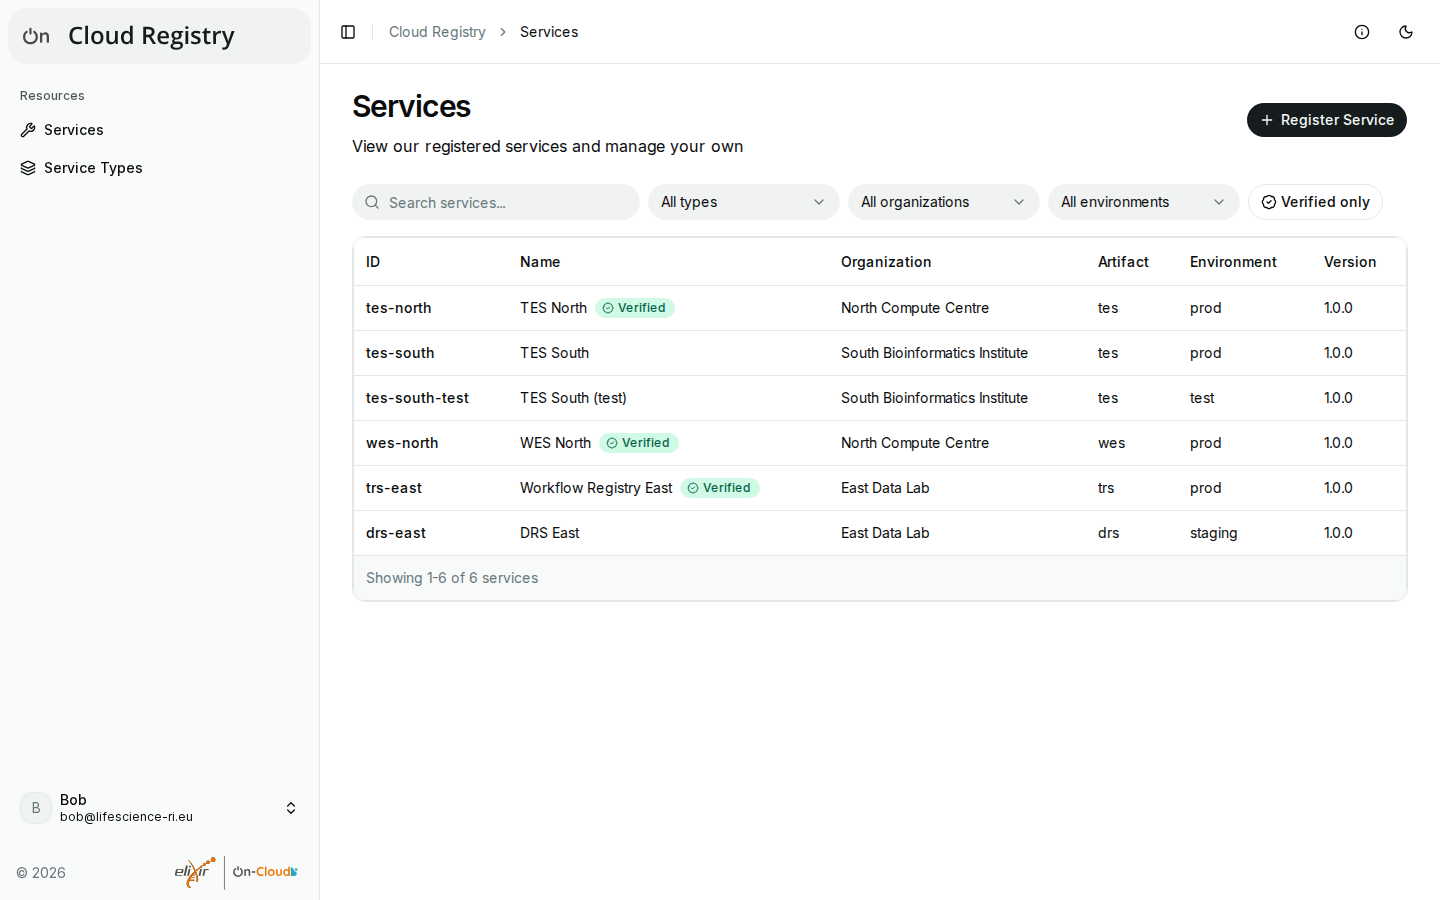
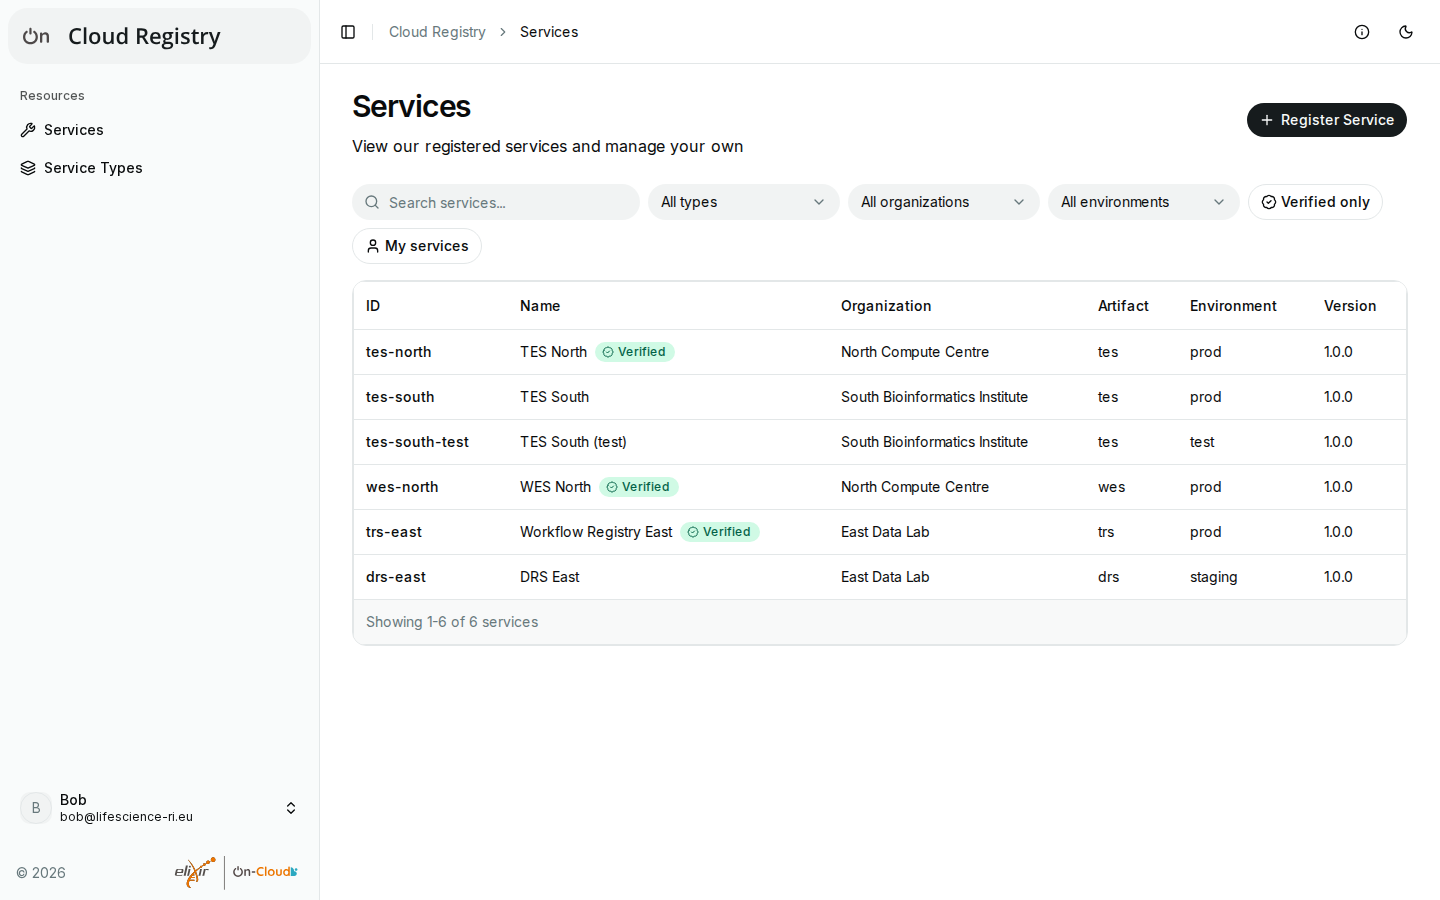
feat: filter the services list to my services (#175)

diff --git a/src/app/dashboard/services/_components/filter-helper.test.ts b/src/app/dashboard/services/_components/filter-helper.test.ts
@@ -1,12 +1,13 @@
 import type { ExternalService } from "@elixir-cloud/cloud-registry/providers";
 import { describe, expect, it } from "vitest";
-import type { ServiceVerification } from "@/lib/cloud-registry.types";
+import type { Me, ServiceVerification } from "@/lib/cloud-registry.types";
 import { typeKey } from "@/lib/service-types";
 import {
     defaultFilters,
     filterOptions,
     filterServices,
     isFiltered,
+    myServices,
 } from "./filter-helper";
 
 const tes = { group: "org.ga4gh", artifact: "tes", version: "1.1.0" };
@@ -88,7 +89,10 @@ describe("isFiltered", () => {
         expect(isFiltered("", { organization: null })).toBe(true);
         expect(isFiltered("", { verified: true })).toBe(true);
         expect(isFiltered("", { pending: true })).toBe(true);
-        expect(isFiltered("", { verified: false, pending: false })).toBe(false);
+        expect(isFiltered("", { mine: true })).toBe(true);
+        expect(
+            isFiltered("", { verified: false, pending: false, mine: false }),
+        ).toBe(false);
     });
 });
 
@@ -99,7 +103,15 @@ describe("filterServices", () => {
         filters = {},
         verified = none,
         pending = new Set<string>(),
-    ) => ids(filterServices(services, search, filters, verified, pending));
+        mine = new Set<string>(),
+    ) =>
+        ids(
+            filterServices(services, search, filters, {
+                verifications: verified,
+                pending,
+                mine,
+            }),
+        );
 
     it("searches the main fields, ignoring case", () => {
         expect(run(" kubernetes ")).toEqual(["a"]);
@@ -128,5 +140,48 @@ describe("filterServices", () => {
                 new Set(["c"]),
             ),
         ).toEqual([]);
+    });
+
+    it("filters the user's services, with the other filters", () => {
+        const mine = new Set(["a", "b"]);
+        expect(run("", { mine: true }, none, new Set(), mine)).toEqual([
+            "a",
+            "b",
+        ]);
+        expect(
+            run("", { mine: true, type: typeKey(wes) }, none, new Set(), mine),
+        ).toEqual(["b"]);
+        expect(
+            run("kubernetes", { mine: true }, none, new Set(), mine),
+        ).toEqual(["a"]);
+        // without roles, or without the filter
+        expect(run("", { mine: true })).toEqual([]);
+        expect(run("", {}, none, new Set(), mine)).toEqual([
+            "a",
+            "b",
+            "c",
+            "d",
+        ]);
+    });
+});
+
+describe("myServices", () => {
+    const me = (services: Me["services"]) => ({ services });
+
+    it("lists the services with a role, direct or through a group", () => {
+        expect(
+            myServices(
+                me([
+                    { service_id: "a", role: "owner" },
+                    { service_id: "a", role: "maintainer", group: "team" },
+                    { service_id: "c", role: "maintainer", group: "team" },
+                ]),
+            ),
+        ).toEqual(new Set(["a", "c"]));
+    });
+
+    it("lists none without a user", () => {
+        expect(myServices(null)).toEqual(new Set());
+        expect(myServices(me([]))).toEqual(new Set());
     });
 });

diff --git a/e2e/services.spec.ts b/e2e/services.spec.ts
@@ -5,6 +5,8 @@ import {
     login,
     registerService,
     test,
+    tokenOf,
+    uniqueId,
     users,
     watchPage,
 } from "./fixtures";
@@ -147,5 +149,57 @@ test.describe("services", () => {
         for (const name of ["Delete", "Manage access", "Verify"])
             await expect(page.getByRole("button", { name })).toHaveCount(0);
         await expect(page.getByRole("link", { name: "Edit" })).toHaveCount(0);
+    });
+
+    test("users filter the services they are responsible for", async ({
+        page,
+        browser,
+    }) => {
+        // services of one test run, found by the search
+        const run = uniqueId();
+        const owned = await registerService(browser, "owner", `Owned ${run}`);
+        const maintained = await registerService(
+            browser,
+            "other",
+            `Maintained ${run}`,
+        );
+        const others = await registerService(browser, "other", `Other ${run}`);
+        const granted = await api(
+            await tokenOf(browser, "other"),
+            "PUT",
+            `/services/${maintained.id}/permissions/${encodeURIComponent(users.owner.sub)}`,
+            { role: "maintainer" },
+        );
+        expect(granted.status).toBeLessThan(300);
+
+        await login(page, "owner");
+        await page.getByLabel("Search services").fill(run);
+        const names = [owned, maintained, others].map((val) =>
+            page.getByText(val.name, { exact: true }),
+        );
+        for (const name of names) await expect(name).toBeVisible();
+        const mine = page.getByRole("button", {
+            name: "Show my services only",
+        });
+        await mine.click();
+        await expect(names[0]).toBeVisible();
+        await expect(names[1]).toBeVisible();
+        await expect(names[2]).toHaveCount(0);
+        // the search still applies, and Clear resets both
+        await page.getByLabel("Search services").fill(owned.name);
+        await expect(names[0]).toBeVisible();
+        await expect(names[1]).toHaveCount(0);
+        await page.getByRole("button", { name: "Clear" }).click();
+        await expect(mine).toHaveAttribute("aria-pressed", "false");
+    });
+
+    test("guests get no filter for their services", async ({ page }) => {
+        await page.goto("/dashboard/services");
+        // the list has loaded
+        await page.waitForLoadState("networkidle");
+        await expect(page.getByLabel("Search services")).toBeEnabled();
+        await expect(
+            page.getByRole("button", { name: "Show my services only" }),
+        ).toHaveCount(0);
     });
 });

diff --git a/src/app/dashboard/services/_components/filter-helper.ts b/src/app/dashboard/services/_components/filter-helper.ts
@@ -1,5 +1,5 @@
 import type { ExternalService } from "@elixir-cloud/cloud-registry/providers";
-import type { ServiceVerification } from "@/lib/cloud-registry.types";
+import type { Me, ServiceVerification } from "@/lib/cloud-registry.types";
 import { environmentRank } from "@/lib/registration-rules";
 import { typeKey } from "@/lib/service-types";
 
@@ -11,6 +11,8 @@ export type ServiceFilters = {
     environment?: FilterValue;
     verified?: boolean;
     pending?: boolean;
+    /** Only services on which the user has a role (see `myServices()`) */
+    mine?: boolean;
 };
 
 export type SelectFilterKey = "type" | "organization" | "environment";
@@ -54,7 +56,8 @@ export function isFiltered(search: string, filters: ServiceFilters) {
         search.trim() !== "" ||
         filterKeys.some((key) => filters[key] !== undefined) ||
         !!filters.verified ||
-        !!filters.pending
+        !!filters.pending ||
+        !!filters.mine
     );
 }
 
@@ -73,18 +76,37 @@ function matchesSearch(service: ExternalService, search: string) {
     ].some((val) => val?.toLowerCase().includes(query));
 }
 
+/**
+ * Get the services that the user is responsible for: those on which they
+ * have a role (owner or maintainer), granted to them or to one of their
+ * groups, as `GET /me` lists them
+ * @param me The user, if logged in
+ * @returns The IDs of the services
+ */
+export function myServices(me: Pick<Me, "services"> | null) {
+    return new Set(me?.services.map((val) => val.service_id));
+}
+
+/** What the toggles filter by, by service ID */
+export type ServiceSets = {
+    verifications: Map<string, ServiceVerification>;
+    pending: Set<string>;
+    /** The user's services (`myServices()`) */
+    mine: Set<string>;
+};
+
 export function filterServices(
     services: ExternalService[],
     search: string,
     filters: ServiceFilters,
-    verifications: Map<string, ServiceVerification>,
-    pending: Set<string>,
+    { verifications, pending, mine }: ServiceSets,
 ) {
     return services.filter(
         (service) =>
             matchesSearch(service, search) &&
             (!filters.verified || verifications.has(service.id)) &&
             (!filters.pending || pending.has(service.id)) &&
+            (!filters.mine || mine.has(service.id)) &&
             filterKeys.every(
                 (key) =>
                     filters[key] === undefined ||

diff --git a/src/app/dashboard/services/_components/table-filters.tsx b/src/app/dashboard/services/_components/table-filters.tsx
@@ -1,5 +1,11 @@
 import type { ExternalService } from "@elixir-cloud/cloud-registry/providers";
-import { BadgeCheckIcon, ClockIcon, SearchIcon, XIcon } from "lucide-react";
+import {
+    BadgeCheckIcon,
+    ClockIcon,
+    SearchIcon,
+    UserIcon,
+    XIcon,
+} from "lucide-react";
 import { Button } from "@/components/ui/button";
 import { Input } from "@/components/ui/input";
 import {
@@ -90,6 +96,8 @@ type Props = {
     filtered: boolean;
     disabled: boolean;
     showPending?: boolean;
+    /** Offer the filter for the user's services (logged-in users) */
+    showMine?: boolean;
     onSearchChange: (search: string) => void;
     onFiltersChange: (filters: ServiceFilters) => void;
 };
@@ -101,6 +109,7 @@ function ServicesTableFilters({
     filtered,
     disabled,
     showPending = false,
+    showMine = false,
     onSearchChange,
     onFiltersChange,
 }: Props) {
@@ -173,6 +182,23 @@ function ServicesTableFilters({
                 <BadgeCheckIcon />
                 Verified only
             </Toggle>
+            {showMine && (
+                <Toggle
+                    variant={"outline"}
+                    aria-label="Show my services only"
+                    pressed={!!filters.mine}
+                    onPressedChange={(pressed) =>
+                        onFiltersChange({
+                            ...filters,
+                            mine: pressed || undefined,
+                        })
+                    }
+                    disabled={disabled}
+                >
+                    <UserIcon />
+                    My services
+                </Toggle>
+            )}
             {showPending && (
                 <Toggle
                     variant={"outline"}

diff --git a/src/app/dashboard/services/page.tsx b/src/app/dashboard/services/page.tsx
@@ -28,6 +28,7 @@ import {
     defaultFilters,
     filterServices,
     isFiltered,
+    myServices,
     type ServiceFilters,
 } from "./_components/filter-helper";
 
@@ -49,15 +50,17 @@ function Page() {
     const [registering, setRegistering] = useState(false);
     const searchParams = useSearchParams();
 
-    const filtered = isFiltered(search, filters);
+    // the user's services; without a user (e.g. after the session
+    // expired), the filter for them is hidden, and doesn't apply
+    const mine = myServices(me);
+    const activeFilters = { ...filters, mine: !!me && filters.mine };
+    const filtered = isFiltered(search, activeFilters);
     const verified = verifiedServices(services, verifications);
-    const filteredServices = filterServices(
-        services,
-        search,
-        filters,
-        verified,
+    const filteredServices = filterServices(services, search, activeFilters, {
+        verifications: verified,
         pending,
-    );
+        mine,
+    });
     const { page, pageCount, pageItems, start, end, setPage } = usePagination(
         filteredServices,
         pageSize,
@@ -192,6 +195,7 @@ function Page() {
                         filtered={filtered}
                         disabled={loading || services.length === 0}
                         showPending={!!me?.admin}
+                        showMine={!!me}
                         onSearchChange={handleSearchChange}
                         onFiltersChange={handleFiltersChange}
                     />

diff --git a/docs/user-guide/browsing.md b/docs/user-guide/browsing.md
@@ -21,6 +21,10 @@ Above the list:
 - **All types**, **All organizations** and **All environments** show only
   services with the chosen value; **Not set** shows those without one.
 - **Verified only** shows only verified services.
+- **My services** (logged-in users) shows only the services you are
+  responsible for: those on which you have a role, owner or maintainer,
+  granted to you or to one of your groups (see [Access and
+  permissions](access.md)).
 - **Pending only** (admins) shows only pending services.
 - **Clear** resets the search and all filters.
 

diff --git a/docs/user-guide/access.md b/docs/user-guide/access.md
@@ -16,6 +16,10 @@ You become the owner of the services you register. Owners can give other
 users, or groups, a role on their services: e.g. a colleague who updates
 the service, or the team that runs it.
 
+**My services** above the list of services shows only the services on
+which you have a role, yourself or through a group (see [Searching and
+filtering](browsing.md#searching-and-filtering)).
+
 Which groups make users admins, and which groups exist, depends on the
 deployment and its login provider; your deployment's documentation says
 whom to ask.

diff --git a/docs/releases/1.0.0-rc1.md b/docs/releases/1.0.0-rc1.md
@@ -58,6 +58,8 @@ unreleased versions, and the [user guide](../user-guide/index.md) to use it.
 - Register services in a modal of the Services page, with a title, a
   description and a close button, as the other dialogs;
   `/dashboard/services/create` opens it (#167, #174)
+- Filter the services list to **My services**: those on which the user has
+  a role, directly or through a group (#171, #175)
 
 ## Security
 
